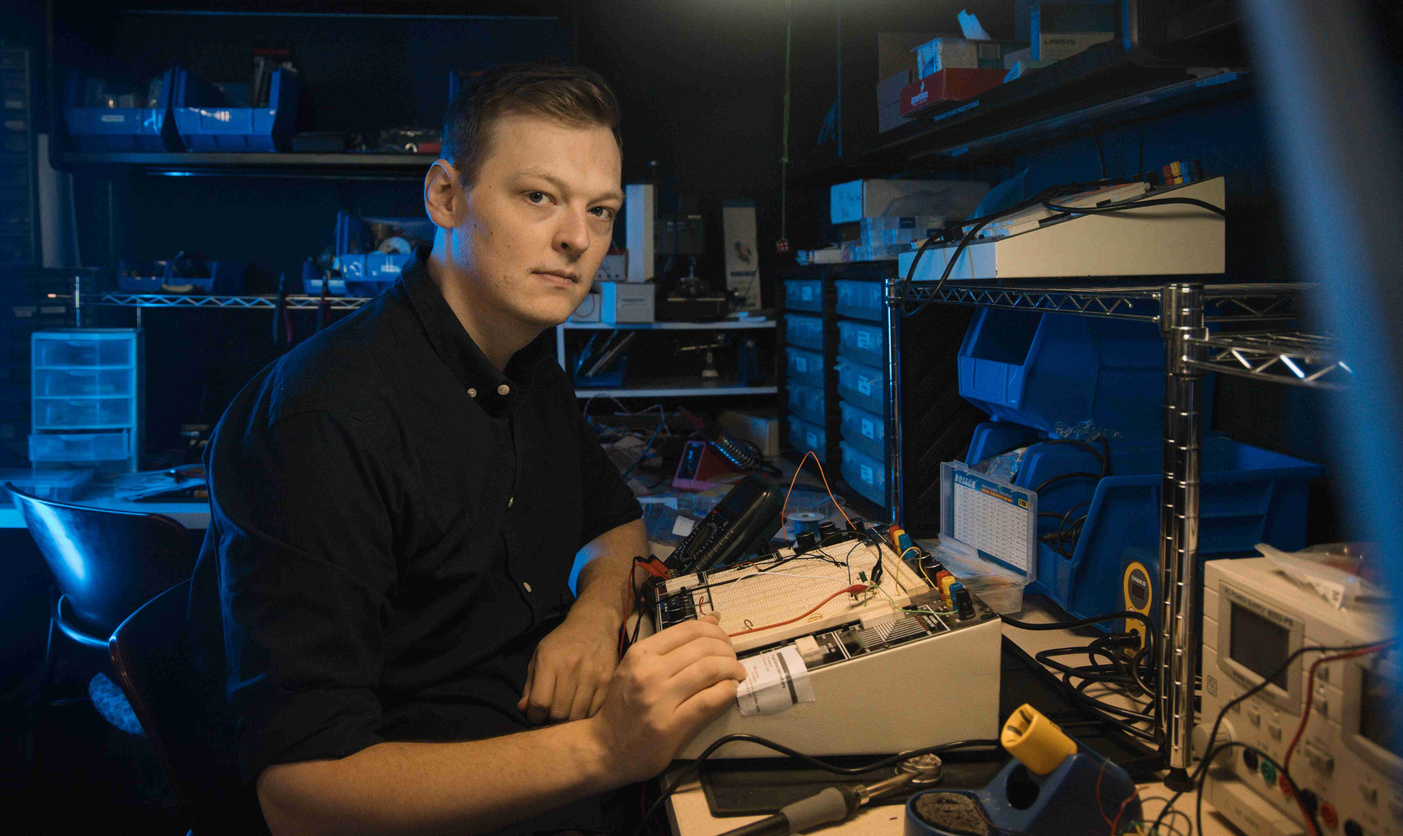
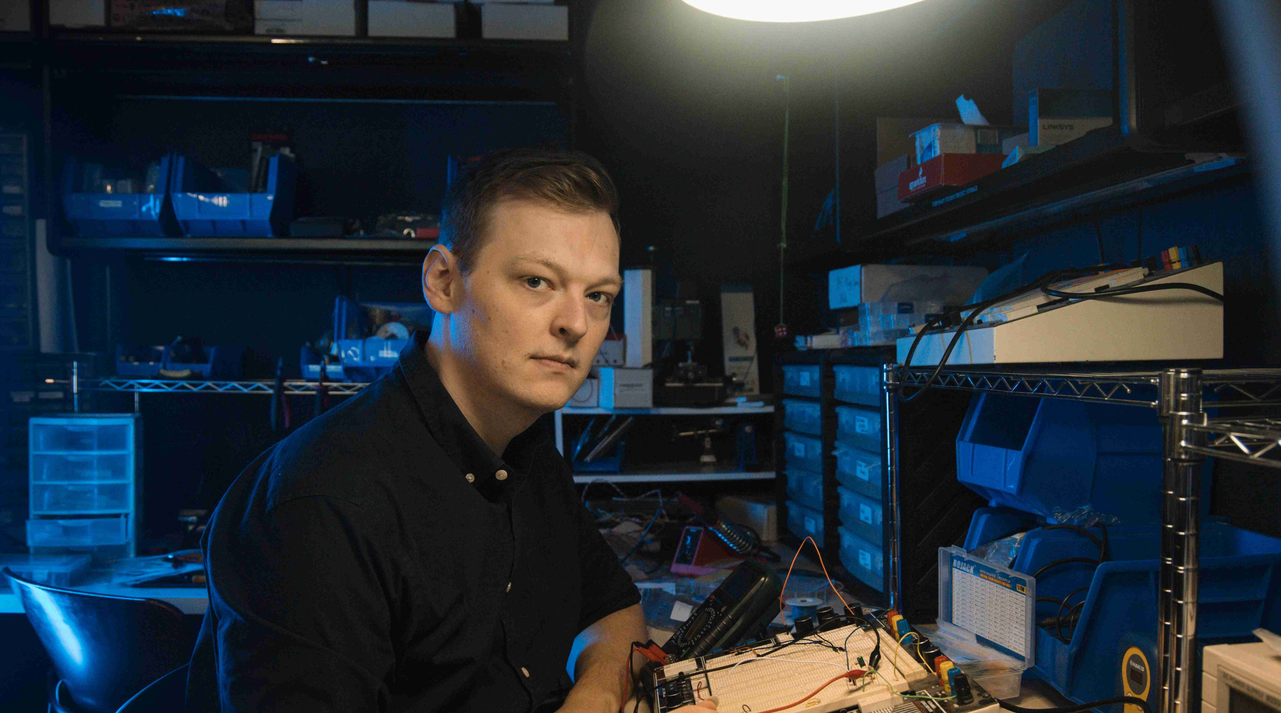
Edited images

diff --git a/_site/index.html b/_site/index.html
@@ -46,13 +46,13 @@
     <meta property="og:title" content="Drew Farrar" />
     <meta property="og:description" content="Composer | Guitarist | Educator" />
     <meta property="og:url" content="http://localhost:4000" />
-    <meta property="og:image" content="http://localhost:4000" />
+    <meta property="og:image" content="http://localhost:4000assets/images/LandingPage-Headshot-Small.jpg" />
     <meta property="article:publisher" content="https://www.facebook.com/" />
     <meta name="twitter:card" content="summary_large_image" />
     <meta name="twitter:title" content="Drew Farrar" />
     <meta name="twitter:description" content="Composer | Guitarist | Educator" />
     <meta name="twitter:url" content="http://localhost:4000" />
-    <meta name="twitter:image" content="http://localhost:4000" />
+    <meta name="twitter:image" content="http://localhost:4000assets/images/LandingPage-Headshot-Small.jpg" />
     <meta name="twitter:label1" content="Written by" />
     <meta name="twitter:data1" content="Drew Farrar" />
     <meta name="twitter:site" content="@" />
@@ -72,7 +72,7 @@
     "url": "http://localhost:4000",
     "image": {
         "@type": "ImageObject",
-        "url": "http://localhost:4000",
+        "url": "http://localhost:4000assets/images/LandingPage-Headshot-Small.jpg",
         "width": 2000,
         "height": 666
     },
@@ -101,7 +101,7 @@
 
     <div class="site-wrapper">
         <!-- All the main content gets inserted here, index.hbs, post.hbs, etc -->
-        <header class="site-header outer no-cover">
+        <header class="site-header outer " style="background-image:  url(assets/images/LandingPage-Headshot-Small.jpg) ">
     <div class="inner">
         <div class="site-header-content">
             <h1 class="site-title">
@@ -145,11 +145,7 @@
             
 
 
-    <article class="post-card home-template">
-        
-            <a class="post-card-image-link" href="/2025/09/13/welcome.html">
-                <div class="post-card-image" style="background-image: url(/assets/2022-Headshot.jpg)"></div>
-            </a>
+    <article class="post-card home-template no-image">
         
         <div class="post-card-content">
             <a class="post-card-content-link" href="/2025/09/13/welcome.html">
@@ -237,58 +233,13 @@
 <div class="carousel__holder">
     <div id="carousel0" class="carousel">
         
-          <input class="carousel__activator" type="radio" name="carousel0" id="0a" checked="checked" />
-        
-          <input class="carousel__activator" type="radio" name="carousel0" id="0b"  />
-        
-          <input class="carousel__activator" type="radio" name="carousel0" id="0c"  />
-        
-        
-          
-          
-          
-          
-          <div class="carousel__controls">
-              <label class="carousel__control carousel__control--backward" for="0c"></label>
-              <label class="carousel__control carousel__control--forward" for="0b"></label>
-          </div>
-        
-          
-          
-          
-          
-          <div class="carousel__controls">
-              <label class="carousel__control carousel__control--backward" for="0a"></label>
-              <label class="carousel__control carousel__control--forward" for="0c"></label>
-          </div>
-        
-          
-          
-          
-          
-          <div class="carousel__controls">
-              <label class="carousel__control carousel__control--backward" for="0b"></label>
-              <label class="carousel__control carousel__control--forward" for="0a"></label>
-          </div>
         
         <div class="carousel__track">
           <ul>
             
-            <li class="carousel__slide"><a href="/assets/2022-Headshot.jpg" title="" data-lightbox="image-set-0"><img src="/assets/2022-Headshot.jpg" alt="" /></a></li>
-            
-            <li class="carousel__slide"><a href="/assets/Backsplash.png" title="" data-lightbox="image-set-0"><img src="/assets/Backsplash.png" alt="" /></a></li>
-            
-            <li class="carousel__slide"><a href="/assets/DrewGuitar.png" title="" data-lightbox="image-set-0"><img src="/assets/DrewGuitar.png" alt="" /></a></li>
-            
           </ul>
         </div>
         <div class="carousel__indicators">
-            
-              <label class="carousel__indicator" for="0a"></label>
-            
-              <label class="carousel__indicator" for="0b"></label>
-            
-              <label class="carousel__indicator" for="0c"></label>
             
         </div>
     </div>
@@ -322,75 +273,6 @@
 .carousel__controls,
 .carousel__activator {
   display: none;
-}
-
-.carousel__activator:nth-of-type(1):checked ~ .carousel__track {
-  -webkit-transform: translateX(-000%);
-          transform: translateX(-000%);
-}
-.carousel__activator:nth-of-type(1):checked ~ .carousel__slide:nth-of-type(1) {
-  transition: opacity 0.5s, -webkit-transform 0.5s;
-  transition: opacity 0.5s, transform 0.5s;
-  transition: opacity 0.5s, transform 0.5s, -webkit-transform 0.5s;
-  top: 0;
-  left: 0;
-  right: 0;
-  opacity: 1;
-  -webkit-transform: scale(1);
-          transform: scale(1);
-}
-.carousel__activator:nth-of-type(1):checked ~ .carousel__controls:nth-of-type(1) {
-  display: block;
-  opacity: 1;
-}
-.carousel__activator:nth-of-type(1):checked ~ .carousel__indicators .carousel__indicator:nth-of-type(1) {
-  opacity: 1;
-}
-
-.carousel__activator:nth-of-type(2):checked ~ .carousel__track {
-  -webkit-transform: translateX(-100%);
-          transform: translateX(-100%);
-}
-.carousel__activator:nth-of-type(2):checked ~ .carousel__slide:nth-of-type(2) {
-  transition: opacity 0.5s, -webkit-transform 0.5s;
-  transition: opacity 0.5s, transform 0.5s;
-  transition: opacity 0.5s, transform 0.5s, -webkit-transform 0.5s;
-  top: 0;
-  left: 0;
-  right: 0;
-  opacity: 1;
-  -webkit-transform: scale(1);
-          transform: scale(1);
-}
-.carousel__activator:nth-of-type(2):checked ~ .carousel__controls:nth-of-type(2) {
-  display: block;
-  opacity: 1;
-}
-.carousel__activator:nth-of-type(2):checked ~ .carousel__indicators .carousel__indicator:nth-of-type(2) {
-  opacity: 1;
-}
-
-.carousel__activator:nth-of-type(3):checked ~ .carousel__track {
-  -webkit-transform: translateX(-200%);
-          transform: translateX(-200%);
-}
-.carousel__activator:nth-of-type(3):checked ~ .carousel__slide:nth-of-type(3) {
-  transition: opacity 0.5s, -webkit-transform 0.5s;
-  transition: opacity 0.5s, transform 0.5s;
-  transition: opacity 0.5s, transform 0.5s, -webkit-transform 0.5s;
-  top: 0;
-  left: 0;
-  right: 0;
-  opacity: 1;
-  -webkit-transform: scale(1);
-          transform: scale(1);
-}
-.carousel__activator:nth-of-type(3):checked ~ .carousel__controls:nth-of-type(3) {
-  display: block;
-  opacity: 1;
-}
-.carousel__activator:nth-of-type(3):checked ~ .carousel__indicators .carousel__indicator:nth-of-type(3) {
-  opacity: 1;
 }
 
 
@@ -465,21 +347,6 @@
   opacity: 1;
 }
 
-.carousel__track .carousel__slide:nth-of-type(1) {
-  -webkit-transform: translateX(000%);
-          transform: translateX(000%);
-}
-
-.carousel__track .carousel__slide:nth-of-type(2) {
-  -webkit-transform: translateX(100%);
-          transform: translateX(100%);
-}
-
-.carousel__track .carousel__slide:nth-of-type(3) {
-  -webkit-transform: translateX(200%);
-          transform: translateX(200%);
-}
-
 
 .carousel--scale .carousel__slide {
   -webkit-transform: scale(0);
@@ -498,24 +365,6 @@
 }
 .carousel__indicator {
   background-color: #fafafa;
-}
-
-.carousel__slide:nth-of-type(1),
-.carousel--thumb .carousel__indicators .carousel__indicator:nth-of-type(1) {
-  background-size: cover;
-  background-position: center;
-}
-
-.carousel__slide:nth-of-type(2),
-.carousel--thumb .carousel__indicators .carousel__indicator:nth-of-type(2) {
-  background-size: cover;
-  background-position: center;
-}
-
-.carousel__slide:nth-of-type(3),
-.carousel--thumb .carousel__indicators .carousel__indicator:nth-of-type(3) {
-  background-size: cover;
-  background-position: center;
 }
 
 .carousel__holder img {

diff --git a/_site/about.html b/_site/about.html
@@ -46,7 +46,7 @@
     <meta property="og:title" content="About" />
     <meta property="og:description" content="Drew Farrar is a composer, guitarist, and educator from St. Louis, Missouri, currently based in Baton Rouge, Louisiana. Farrar's music often incorporates physical movement, quotation, and spectral techniques to explore concepts of agency and otherness. His works have been performed by RE:duo, Confluss Duo, the Illinois Modern Ensemble, and New" />
     <meta property="og:url" content="http://localhost:4000about.html" />
-    <meta property="og:image" content="http://localhost:4000" />
+    <meta property="og:image" content="http://localhost:4000assets/images/About-Headshot.jpg" />
     <meta property="article:publisher" content="https://www.facebook.com/" />
     <meta property="article:author" content="https://www.facebook.com/" />
     <meta property="article:published_time" content="" />
@@ -55,7 +55,7 @@
     <meta name="twitter:title" content="About" />
     <meta name="twitter:description" content="Drew Farrar is a composer, guitarist, and educator from St. Louis, Missouri, currently based in Baton Rouge, Louisiana. Farrar's music often incorporates physical movement, quotation, and spectral techniques to explore concepts of agency and otherness. His works have been performed by RE:duo, Confluss Duo, the Illinois Modern Ensemble, and New" />
     <meta name="twitter:url" content="http://localhost:4000" />
-    <meta name="twitter:image" content="http://localhost:4000" />
+    <meta name="twitter:image" content="http://localhost:4000assets/images/About-Headshot.jpg" />
     <meta name="twitter:label1" content="Written by" />
     <meta name="twitter:data1" content="Drew Farrar" />
     <meta name="twitter:site" content="@" />
@@ -75,7 +75,7 @@
     "url": "http://localhost:4000about.html",
     "image": {
         "@type": "ImageObject",
-        "url": "http://localhost:4000",
+        "url": "http://localhost:4000assets/images/About-Headshot.jpg",
         "width": 2000,
         "height": 666
     },
@@ -153,12 +153,15 @@ into the {body} of the default.hbs template -->
 <main id="site-main" class="site-main outer" role="main" style="background-color:#e8dcb8">
     <div class="inner" style="background-color:#e8dcb8">
 
-        <article class="post-full  post page no-image" style="background-color:#e8dcb8">
+        <article class="post-full  post page " style="background-color:#e8dcb8">
 
             <header class="post-full-header">
                 <h1 class="post-full-title">About</h1>
             </header>
 
+            
+            <figure class="post-full-image" style="background-image: url(assets/images/About-Headshot.jpg)">
+            </figure>
             
 
             <section class="post-full-content" style="background-color:#e8dcb8">

diff --git a/_site/2025/09/13/welcome.html b/_site/2025/09/13/welcome.html
@@ -46,14 +46,14 @@
     <meta property="og:title" content="Welcome" />
     <meta property="og:description" content="Composer | Guitarist | Educator" />
     <meta property="og:url" content="http://localhost:40002025/09/13/welcome.html" />
-    <meta property="og:image" content="http://localhost:4000/assets/2022-Headshot.jpg" />
+    <meta property="og:image" content="http://localhost:4000" />
     <meta property="article:publisher" content="https://www.facebook.com/" />
     <meta property="article:tag" content="Getting started" />
     <meta name="twitter:card" content="summary_large_image" />
     <meta name="twitter:title" content="Welcome" />
     <meta name="twitter:description" content="Composer | Guitarist | Educator" />
     <meta name="twitter:url" content="http://localhost:4000" />
-    <meta name="twitter:image" content="http://localhost:4000/assets/2022-Headshot.jpg" />
+    <meta name="twitter:image" content="http://localhost:4000" />
     <meta name="twitter:label1" content="Written by" />
     <meta name="twitter:data1" content="Drew Farrar" />
     <meta name="twitter:label2" content="Filed under" />
@@ -75,7 +75,7 @@
     "url": "http://localhost:40002025/09/13/welcome.html",
     "image": {
         "@type": "ImageObject",
-        "url": "http://localhost:4000/assets/2022-Headshot.jpg",
+        "url": "http://localhost:4000",
         "width": 2000,
         "height": 666
     },
@@ -147,7 +147,7 @@ into the {body} of the default.hbs template -->
 <main id="site-main" class="site-main outer" role="main">
     <div class="inner">
 
-        <article class="post-full  tag-getting-started post ">
+        <article class="post-full  tag-getting-started post no-image">
 
             <header class="post-full-header">
                 <section class="post-full-meta">
@@ -164,9 +164,6 @@ into the {body} of the default.hbs template -->
                 <h1 class="post-full-title">Welcome</h1>
             </header>
 
-            
-            <figure class="post-full-image" style="background-image: url(/assets/2022-Headshot.jpg)">
-            </figure>
             
 
             <section class="post-full-content">

diff --git a/_site/2025/09/13/godot-for-creative-musicians.html b/_site/2025/09/13/godot-for-creative-musicians.html
@@ -237,11 +237,7 @@ into the {body} of the default.hbs template -->
             
                 
 
-    <article class="post-card post-template">
-        
-            <a class="post-card-image-link" href="/2025/09/13/welcome.html">
-                <div class="post-card-image" style="background-image: url(/assets/2022-Headshot.jpg)"></div>
-            </a>
+    <article class="post-card post-template no-image">
         
         <div class="post-card-content">
             <a class="post-card-content-link" href="/2025/09/13/welcome.html">

diff --git a/about.md b/about.md
@@ -3,6 +3,7 @@ layout: page
 current: about
 title: About
 navigation: true
+cover: assets/images/About-Headshot.jpg
 logo: 
 class: page-template
 subclass: 'post page'
